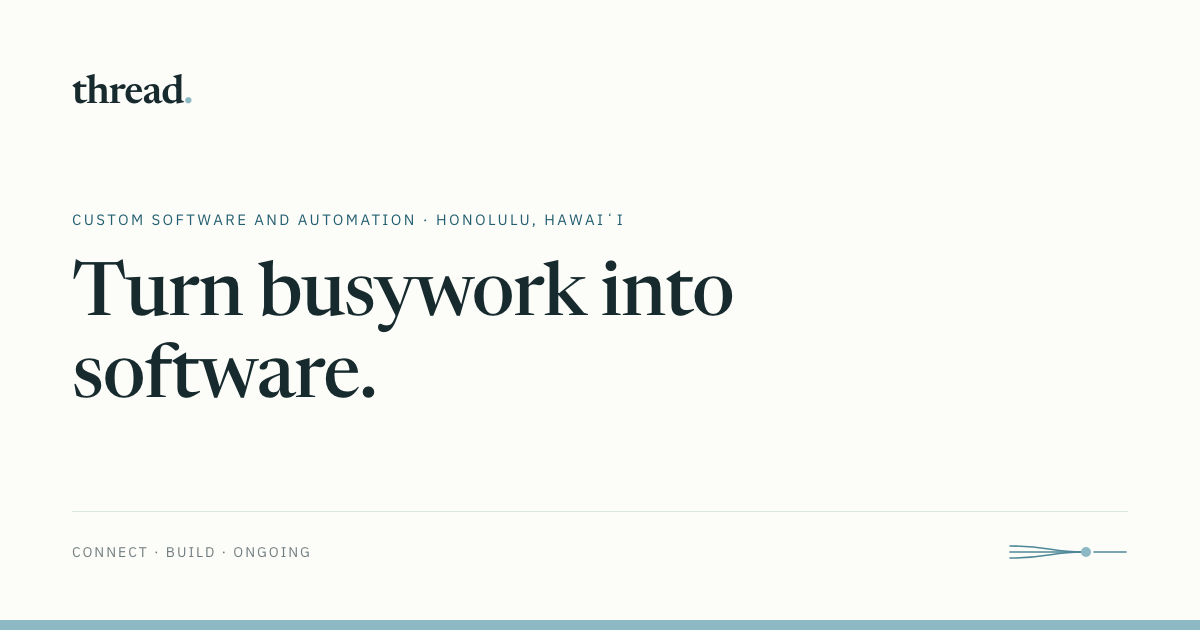
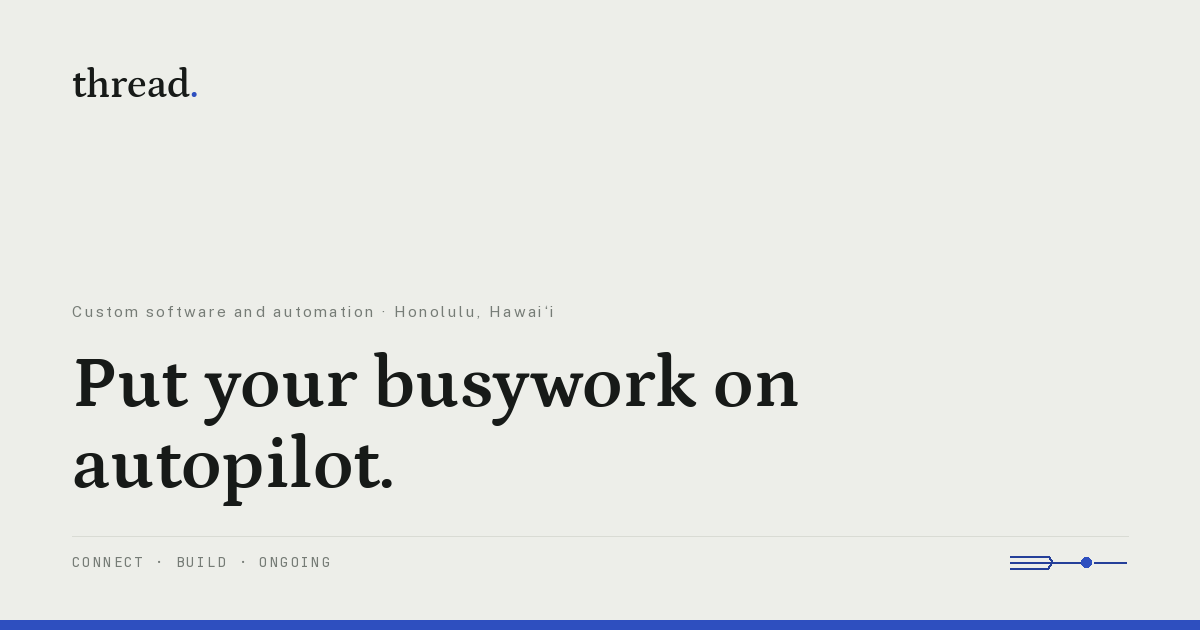
Rebuild the social card in the graphite palette
og.png still carried the ocean palette and the headline from two changes ago,
which matters more than most stale assets: it is the link preview, so every
scrape caches it and the wrong one outlives the page edit.

Rendered by a new scripts/build-og.py using Pillow and the shipped font
subsets rather than build-assets.sh's headless Chrome. Same reason as
build-icons.py: the card could not be rebuilt on the machine where the palette
actually changed, so it was not. /og remains the design of record and this is
a renderer that follows it.

diff --git a/scripts/build-og.py b/scripts/build-og.py
@@ -1,0 +1,130 @@
+#!/usr/bin/env python3
+"""
+Render the social card to public/og.png.
+
+Why this exists alongside scripts/build-assets.sh
+-------------------------------------------------
+build-assets.sh screenshots the /og route with headless Chrome. That is the
+right way to keep the card and the page in one language, and it is also why
+og.png sat on the ocean palette for a day after the graphite swap: nobody has
+Chrome, rsvg-convert and ImageMagick set up on the machine where the palette
+actually changed.
+
+This draws the same card with Pillow instead, from the same tokens and the
+same shipped font files, so the card can be rebuilt anywhere Python runs. If
+the two ever disagree, /og is the design and this is the renderer that has to
+catch up.
+
+⚠ The headline is duplicated here, in src/pages/og.astro and in
+Hero.astro. All three must agree — a stale card outlives a page edit in every
+already-scraped cache.
+
+Requirements: pillow, fonttools, brotli.
+"""
+
+from __future__ import annotations
+
+import io
+import sys
+from pathlib import Path
+
+from fontTools.ttLib import TTFont
+from PIL import Image, ImageDraw, ImageFont
+
+ROOT = Path(__file__).resolve().parent.parent
+FONTS = ROOT / "public" / "fonts"
+OUT = ROOT / "public" / "og.png"
+
+# Kept in step with global.css by hand.
+PAPER, INK, FAINT, RULE = "#EDEEE9", "#171A18", "#767C76", "#D9DBD4"
+ACCENT, ACCENT_DARK = "#2E4FBF", "#253F99"
+
+HEADLINE = "Put your busywork on autopilot."
+EYEBROW = "Custom software and automation · Honolulu, Hawaiʻi"
+META = "CONNECT · BUILD · ONGOING"
+
+W, H = 1200, 630
+PAD_X, PAD_TOP, PAD_BOTTOM = 72, 62, 56
+
+
+def load(name: str, size: int, weight: int | None = None) -> ImageFont.FreeTypeFont:
+    """woff2 -> ttf in memory. Pillow cannot read woff2 directly."""
+    f = TTFont(FONTS / name)
+    if weight is not None and "fvar" in f:
+        from fontTools.varLib import instancer
+        f = instancer.instantiateVariableFont(f, {"wght": weight})
+    buf = io.BytesIO()
+    f.flavor = None
+    f.save(buf)
+    buf.seek(0)
+    return ImageFont.truetype(buf, size)
+
+
+def wrap(draw, text, font, max_w):
+    words, lines, cur = text.split(), [], ""
+    for w in words:
+        trial = f"{cur} {w}".strip()
+        if draw.textlength(trial, font=font) <= max_w:
+            cur = trial
+        else:
+            lines.append(cur)
+            cur = w
+    if cur:
+        lines.append(cur)
+    return lines
+
+
+def tracked(draw, xy, text, font, fill, tracking):
+    """Pillow has no letter-spacing, so draw glyph by glyph."""
+    x, y = xy
+    for ch in text:
+        draw.text((x, y), ch, font=font, fill=fill)
+        x += draw.textlength(ch, font=font) + tracking
+
+
+def main() -> int:
+    img = Image.new("RGB", (W, H), PAPER)
+    d = ImageDraw.Draw(img)
+
+    wordmark = load("petrona-latin-var.woff2", 40, 600)
+    display = load("petrona-latin-var.woff2", 74, 650)
+    sans = load("public-sans-latin-400.woff2", 15)
+    mono = load("jetbrains-mono-latin-400.woff2", 14)
+
+    # wordmark, top left
+    d.text((PAD_X, PAD_TOP), "thread", font=wordmark, fill=INK)
+    d.text((PAD_X + d.textlength("thread", font=wordmark), PAD_TOP), ".",
+           font=wordmark, fill=ACCENT)
+
+    # the bottom bar, measured up from the base so the middle can fill the rest
+    bar_h = 10
+    bottom_y = H - bar_h - PAD_BOTTOM
+    d.rectangle([0, H - bar_h, W, H], fill=ACCENT)
+    d.line([PAD_X, bottom_y - 28, W - PAD_X, bottom_y - 28], fill=RULE, width=1)
+    tracked(d, (PAD_X, bottom_y - 12), META, mono, FAINT, 2.0)
+
+    # motif, right of the meta line, at 1:1 with the 120x24 viewBox
+    mx, my = W - PAD_X - 120, bottom_y - 14
+    for pts in ([(2, 6), (40, 6), (44, 12), (74, 12)], [(2, 18), (40, 18), (44, 12), (74, 12)]):
+        d.line([(mx + a, my + b) for a, b in pts], fill=ACCENT_DARK, width=2, joint="curve")
+    d.line([mx + 2, my + 12, mx + 74, my + 12], fill=ACCENT_DARK, width=2)
+    d.ellipse([mx + 73, my + 7, mx + 83, my + 17], fill=ACCENT)
+    d.line([mx + 86, my + 12, mx + 118, my + 12], fill=ACCENT_DARK, width=2)
+
+    # eyebrow and headline, sitting on the bottom bar
+    lines = wrap(d, HEADLINE, display, W - PAD_X * 2)
+    line_h = int(74 * 1.1)
+    block_h = len(lines) * line_h
+    top = bottom_y - 60 - block_h
+    tracked(d, (PAD_X, top - 40), EYEBROW, sans, FAINT, 2.4)
+    for i, ln in enumerate(lines):
+        d.text((PAD_X, top + i * line_h), ln, font=display, fill=INK)
+
+    img.save(OUT, optimize=True)
+    print(f"  → og.png  {W}x{H}  {OUT.stat().st_size / 1024:.1f} KB")
+    print(f"    headline: {HEADLINE!r}")
+    return 0
+
+
+if __name__ == "__main__":
+    sys.exit(main())

diff --git a/CLAUDE.md b/CLAUDE.md
@@ -167,8 +167,14 @@ the *current* content; do not read it as the copy of record.
    ocean palette's 4.21. It carries the hero signature line, the form helper and
    the open row 08 text. Raised with the owner before the build and built as
    drawn. `#6A7076` clears it at 4.54:1 and is barely perceptible.
-3. **`/og.png` is stale.** Run `npm run assets:build` — the card art is a baked
-   PNG and still carries the ocean palette. Favicons too.
+3. ~~**`/og.png` is stale.**~~ Rebuilt 29 Aug 2026, along with every icon.
+   Both now have renderers that need only Python: `npm run og:build` and
+   `npm run icons:build`. That is the point of them — `assets:build` needs
+   headless Chrome, rsvg-convert and ImageMagick, which is exactly why these
+   sat on the ocean palette after the swap. `/og` is still the design of
+   record; `scripts/build-og.py` is a renderer that has to catch up if the two
+   ever disagree. **A web app manifest was added at the same time**: the site
+   had icons for browser tabs and iOS home screens and nothing for Android.
 4. ~~The narrow (phone) composition of both drawings was derived, not drawn.~~
    The owner supplied `Thread Homepage - Mobile.dc.html` on 29 Aug 2026 and it
    is built. Still nothing between 640 and 1440 is drawn, so the tablet band
